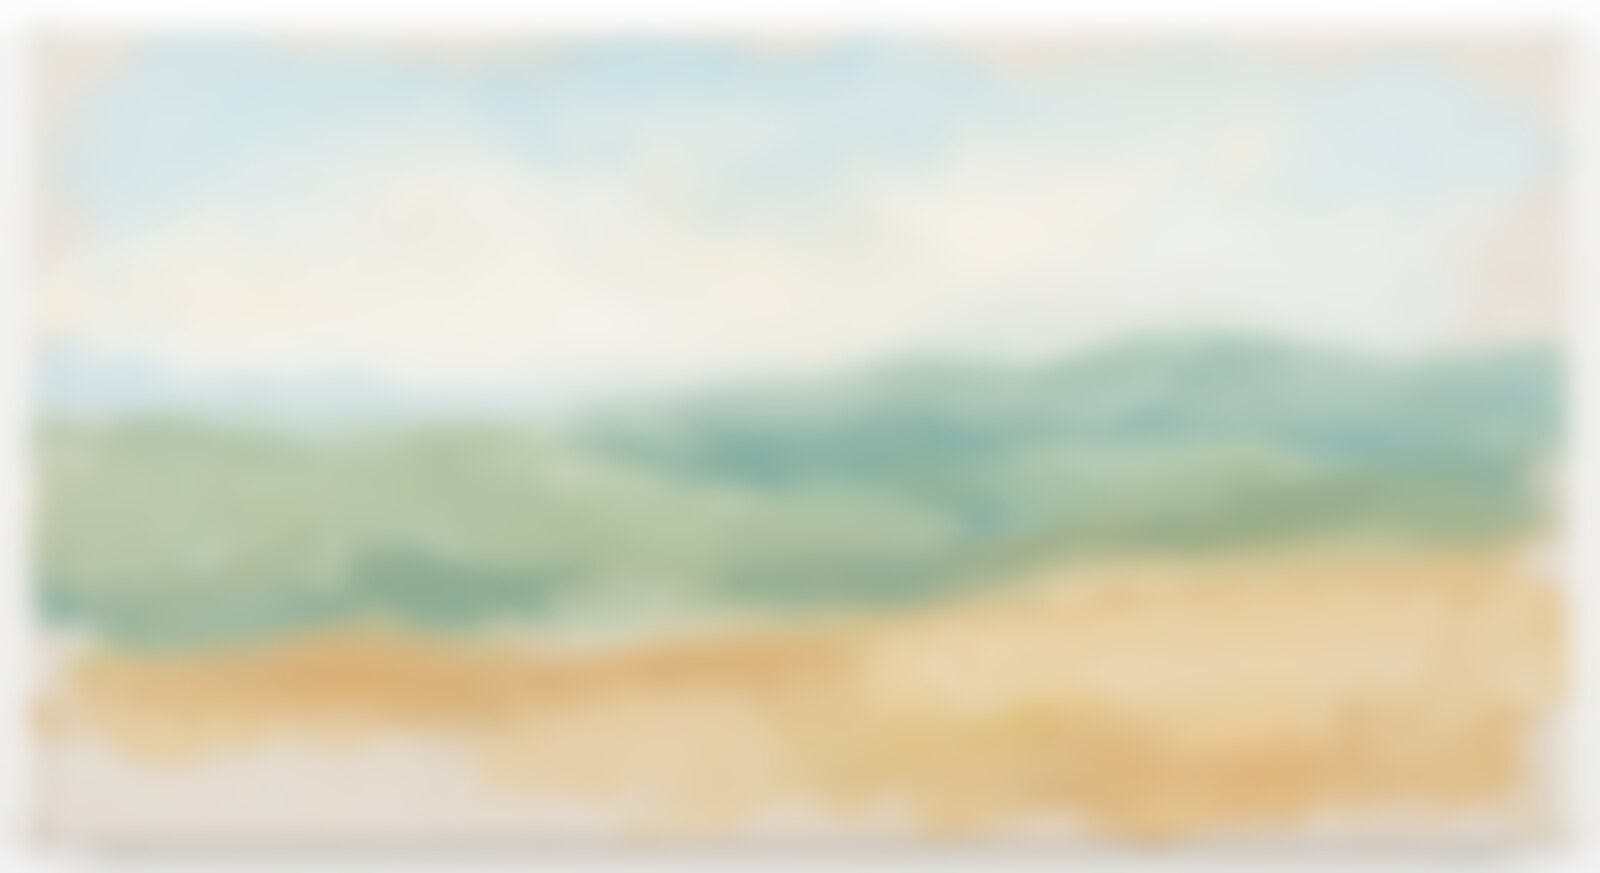
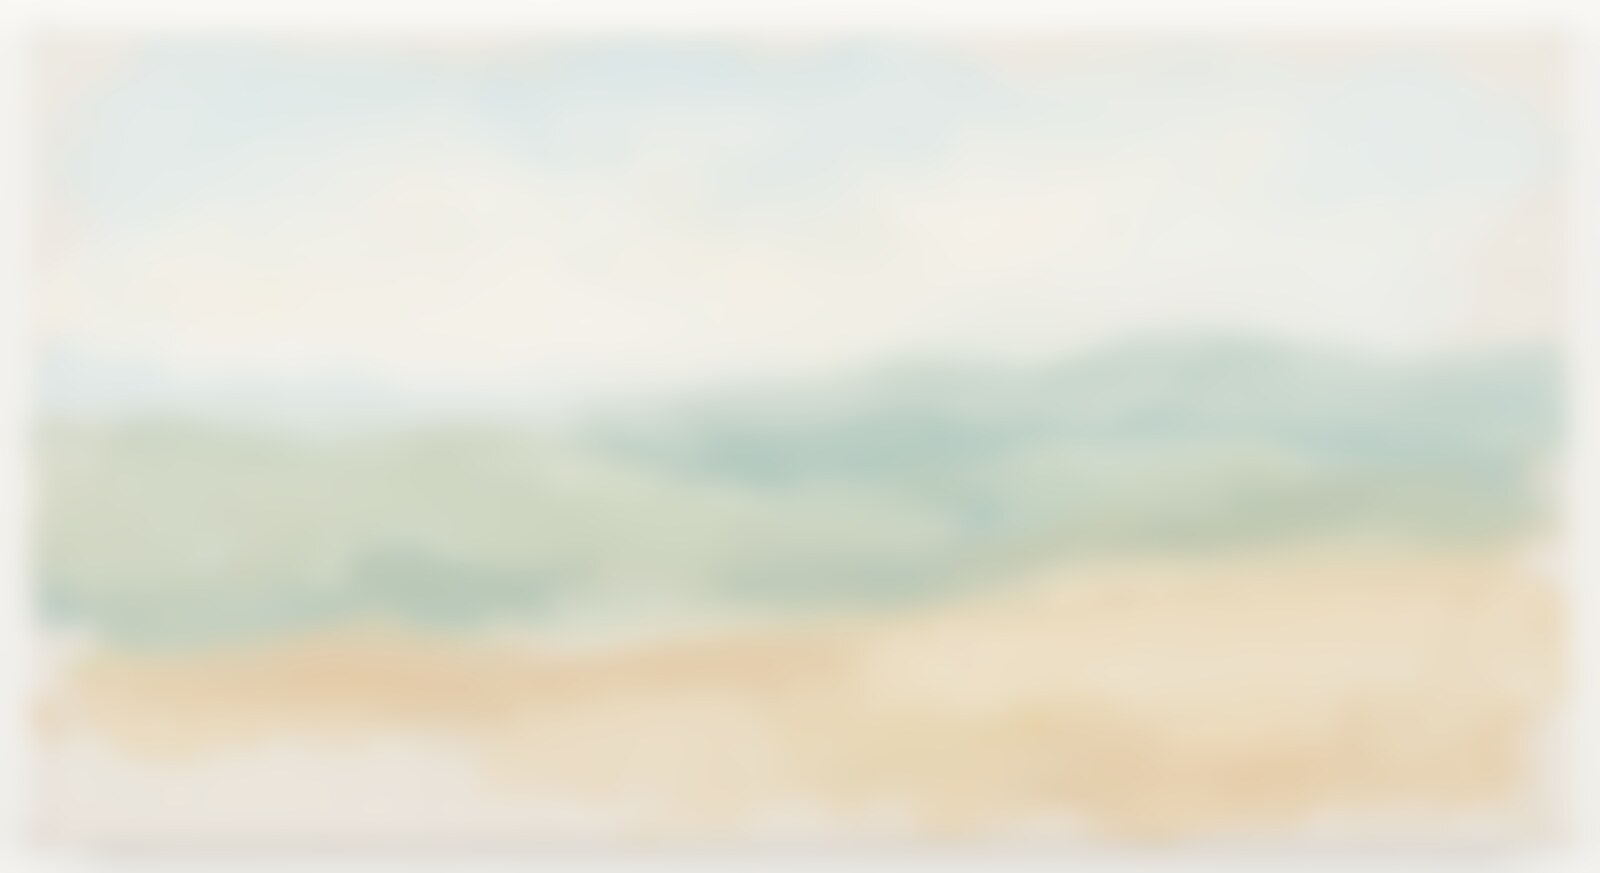
fix(vantaggi): leggibilita' garantita senza dipendere dal CSS - card bianche piene (bg-white), velo chiaro cotto nei JPEG sfocati (colorize 42%), rimossi sr-only decorativi e overlay con classi nuove; nuovo sfondo vantaggi-processo.jpg; SKILL aggiornata con regola anti-cache e ricetta screenshot

diff --git a/src/app/vantaggi/page.tsx b/src/app/vantaggi/page.tsx
@@ -55,20 +55,19 @@ export default async function VantaggiPage() {
           image="/images/vantaggi-hero.jpg"
           className="mx-auto max-w-6xl"
           contentClassName="px-6 py-14 md:px-14 md:py-24"
-          overlayClassName="bg-gradient-to-r from-cream/70 via-cream/45 to-cream/20"
         >
           <p className="text-[11px] uppercase tracking-[0.2em] text-olive">{POSITIONING.eyebrow}</p>
           <h1 className="mt-4 max-w-3xl font-serif text-4xl leading-[1.12] text-forest md:text-6xl">
             {POSITIONING.title}
           </h1>
-          <p className="mt-5 max-w-2xl text-[15px] leading-7 text-forest/80">{POSITIONING.subtitle}</p>
+          <p className="mt-5 max-w-2xl text-[15px] leading-7 text-forest">{POSITIONING.subtitle}</p>
           <div className="mt-8 flex flex-wrap items-center gap-3">
             <Link href={href("/imprese")} className="rounded-full bg-forest px-6 py-3 text-sm text-cream">
               Richiedi una convenzione
             </Link>
             <Link
               href={href("/come-funziona")}
-              className="rounded-full border border-forest/25 bg-cream/50 px-6 py-3 text-sm text-forest backdrop-blur-sm hover:bg-cream/80"
+              className="rounded-full border border-forest/25 bg-cream px-6 py-3 text-sm text-forest hover:bg-mist"
             >
               Vedi come funziona
             </Link>
@@ -92,20 +91,19 @@ export default async function VantaggiPage() {
           image="/images/vantaggi-stakeholder.jpg"
           className="mx-auto max-w-6xl"
           contentClassName="px-5 py-14 md:px-12 md:py-20"
-          overlayClassName="bg-cream/30"
         >
           <div className="max-w-3xl">
             <p className="text-[11px] uppercase tracking-[0.18em] text-olive">Valore condiviso</p>
             <h2 className="mt-3 font-serif text-3xl leading-tight text-forest md:text-4xl">
               Il valore dell&apos;ecosistema per gli stakeholder e la comunità
             </h2>
-            <p className="mt-4 text-[15px] leading-7 text-forest/80">{ECOSYSTEM_INTRO}</p>
+            <p className="mt-4 text-[15px] leading-7 text-forest">{ECOSYSTEM_INTRO}</p>
           </div>
           <div className="mt-10 grid gap-4 md:grid-cols-2">
             {stakeholders.map((item) => (
               <article
                 key={item.key}
-                className="rounded-2xl border border-white/50 bg-paper/85 p-6 backdrop-blur-sm md:p-7"
+                className="rounded-2xl border border-forest/10 bg-white p-6 md:p-7"
               >
                 <h3 className="font-serif text-xl text-forest md:text-2xl">{item.label}</h3>
                 <p className="mt-3 text-sm leading-6 text-olive">{item.benefit}</p>
@@ -121,7 +119,6 @@ export default async function VantaggiPage() {
           image="/images/vantaggi-moduli.jpg"
           className="mx-auto max-w-6xl"
           contentClassName="px-5 py-14 md:px-12 md:py-20"
-          overlayClassName="bg-cream/25"
         >
           <div className="max-w-2xl">
             <p className="text-[11px] uppercase tracking-[0.18em] text-olive">Come funziona l&apos;ecosistema</p>
@@ -133,7 +130,7 @@ export default async function VantaggiPage() {
             {modules.map((module) => (
               <article
                 key={module.key}
-                className="flex flex-col rounded-2xl border border-white/50 bg-paper/85 p-6 backdrop-blur-sm md:p-7"
+                className="flex flex-col rounded-2xl border border-forest/10 bg-white p-6 md:p-7"
               >
                 <p className="font-serif text-3xl text-gold">{module.index}</p>
                 <h3 className="mt-3 font-serif text-xl leading-snug text-forest">{module.title}</h3>
@@ -224,10 +221,9 @@ export default async function VantaggiPage() {
       {/* 6 — Processo di coinvolgimento (sfondo sfocato + diagramma + testo dentro l'immagine) */}
       <section className="px-3 md:px-6">
         <BlurredPanel
-          image="/images/abstract-blur.jpg"
+          image="/images/vantaggi-processo.jpg"
           className="mx-auto max-w-6xl"
           contentClassName="px-5 py-14 md:px-12 md:py-20"
-          overlayClassName="bg-cream/20"
         >
           <div className="max-w-2xl">
             <p className="text-[11px] uppercase tracking-[0.18em] text-olive">Il percorso</p>
@@ -244,7 +240,7 @@ export default async function VantaggiPage() {
             {processSteps.map((step, index) => (
               <article
                 key={step.key}
-                className="rounded-2xl border border-white/50 bg-cream/70 p-6 backdrop-blur-sm"
+                className="rounded-2xl border border-forest/10 bg-white p-6"
               >
                 <p className="text-[11px] uppercase tracking-[0.16em] text-olive">0{index + 1}</p>
                 <h3 className="mt-2 font-serif text-lg leading-snug text-forest">{step.title}</h3>
@@ -261,21 +257,20 @@ export default async function VantaggiPage() {
           image="/images/vantaggi-impatto.jpg"
           className="mx-auto max-w-6xl"
           contentClassName="px-5 py-14 md:px-12 md:py-20"
-          overlayClassName="bg-cream/35"
         >
           <div className="max-w-3xl">
             <p className="text-[11px] uppercase tracking-[0.18em] text-olive">Misurazione</p>
             <h2 className="mt-3 font-serif text-3xl leading-tight text-forest md:text-4xl">
               Gli indicatori di impatto dell&apos;ecosistema
             </h2>
-            <p className="mt-4 text-[15px] leading-7 text-forest/80">{IMPACT_INTRO}</p>
+            <p className="mt-4 text-[15px] leading-7 text-forest">{IMPACT_INTRO}</p>
           </div>
 
           <div className="mt-10 grid gap-4 md:grid-cols-2">
-            {impactIndicators.map((indicator, index) => (
+            {impactIndicators.map((indicator) => (
               <article
                 key={indicator.key}
-                className="rounded-2xl border border-white/50 bg-paper/85 p-6 backdrop-blur-sm md:p-7"
+                className="rounded-2xl border border-forest/10 bg-white p-6 md:p-7"
               >
                 <h3 className="font-serif text-xl text-forest">{indicator.title}</h3>
                 <p className="mt-3 text-sm leading-6 text-olive">{indicator.text}</p>
@@ -294,9 +289,6 @@ export default async function VantaggiPage() {
                     Imprese aderenti con reporting attivo: <span className="text-forest">{stats.companies}</span>
                   </p>
                 )}
-                <span className="sr-only">
-                  Indicatore {index + 1} di {impactIndicators.length}
-                </span>
               </article>
             ))}
           </div>

diff --git a/src/components/vantaggi/panel.tsx b/src/components/vantaggi/panel.tsx
@@ -11,7 +11,7 @@ export function BlurredPanel({
   children,
   className = "",
   contentClassName = "",
-  overlayClassName = "bg-cream/35",
+  overlayClassName = "",
   rounded = "rounded-[28px]",
 }: {
   image: string;
@@ -25,7 +25,9 @@ export function BlurredPanel({
   return (
     <div className={`relative overflow-hidden ${rounded} ${className}`}>
       <img src={image} alt={alt} className="absolute inset-0 h-full w-full object-cover" />
-      <div className={`absolute inset-0 ${overlayClassName}`} aria-hidden="true" />
+      {overlayClassName ? (
+        <div className={`absolute inset-0 ${overlayClassName}`} aria-hidden="true" />
+      ) : null}
       <div className={`relative ${contentClassName}`}>{children}</div>
     </div>
   );

diff --git a/Doc/skills/pagina-vantaggi/SKILL.md b/Doc/skills/pagina-vantaggi/SKILL.md
@@ -29,13 +29,44 @@ La pagina esiste già: usare questa sezione per **estendere** senza riscrivere.
 **Trattamento visivo delle sezioni immagine** (richiesta esplicita del committente): l'immagine è
 uno sfondo pittorico *volutamente sfocato* — è lo stesso linguaggio del diagramma in
 `/come-funziona` — e il testo, le card e i diagrammi stanno **sopra l'immagine**, non accanto.
-Tecnica: `BlurredPanel` con `img` in `absolute inset-0 object-cover`, overlay `bg-cream/NN` per il
-contrasto, contenuto in un layer `relative`. Non introdurre vignette scure: gli sfondi sono chiari,
-il testo che ci va sopra è `text-forest`.
+Tecnica: `BlurredPanel` con `img` in `absolute inset-0 object-cover` e contenuto in un layer
+`relative`.
 
-Se serve un nuovo sfondo: generare il dipinto, **sfocarlo davvero** in post-produzione
-(`convert in.jpg -resize 1600x -gaussian-blur 0x13 -modulate 103,112,100 out.jpg`), altrimenti il
-dettaglio pittorico compete con il testo.
+**Regola anti-cache (lezione pagata).** Il velo chiaro che garantisce il contrasto è **cotto dentro
+il JPEG**, non affidato a un overlay CSS. Motivo: le classi nuove (`bg-cream/45`, `bg-paper/85`,
+`backdrop-blur-sm`, `sr-only`…) compaiono solo nel CSS rigenerato; un visitatore che ha in cache il
+CSS precedente le perde e si ritrova card trasparenti e testo illeggibile sullo sfondo. Quindi:
+
+- superfici delle card: `bg-white` + `border-forest/10` (classi già presenti ovunque nel progetto);
+- sfondi: JPEG sfocato **+ velo `#f4f1ea` al 40-55%** applicato in post-produzione;
+- niente `sr-only` decorativi: se un'etichetta non deve vedersi, non renderizzarla.
+
+Non introdurre vignette scure: gli sfondi sono chiari, il testo che ci va sopra è `text-forest`
+opaco (non `/80`).
+
+Ricetta completa di uno sfondo:
+
+```bash
+convert orig.jpg -resize 1600x -gaussian-blur 0x13 -modulate 103,108,100 \
+  -fill "#f4f1ea" -colorize 42% -quality 88 public/images/vantaggi-<sezione>.jpg
+```
+
+Il terzo passaggio (`-colorize 42%`) è quello che rende il testo leggibile senza CSS.
+
+**Screenshot di verifica.** L'ambiente non ha browser: si usa Chromium impacchettato su npm, con le
+librerie e i font estratti dai bundle del pacchetto.
+
+```bash
+mkdir -p /tmp/shot && cd /tmp/shot && npm i @sparticuz/chromium puppeteer-core
+node -e "const fs=require('fs'),z=require('zlib');for(const f of ['al2023','fonts']){try{fs.writeFileSync('/tmp/'+f+'.tar', z.brotliDecompressSync(fs.readFileSync('node_modules/@sparticuz/chromium/bin/'+f+'.tar.br')))}catch(e){}}"
+mkdir -p /tmp/chromium-libs /tmp/chromium-fonts && tar -xf /tmp/al2023.tar -C /tmp/chromium-libs && tar -xf /tmp/fonts.tar -C /tmp/chromium-fonts
+# fontconfig per avere un serif (DejaVu) e il sans del progetto
+printf '%s' '<fontconfig><dir>/usr/share/fonts</dir><dir>/tmp/chromium-fonts/fonts</dir><cachedir>/tmp/fontconf/cache</cachedir><alias><family>serif</family><prefer><family>DejaVu Serif</family></prefer></alias></fontconfig>' > /tmp/fontconf/fonts.conf
+FONTCONFIG_PATH=/tmp/fontconf LD_LIBRARY_PATH=/tmp/chromium-libs/lib node shot.js http://localhost:3000/vantaggi out.png 1440 900
+```
+
+`@sparticuz/chromium` va importato come `mod.default ?? mod` (altrimenti `chromium.args is not
+iterable`) e lanciato con `headless: "shell"`.
 
 ---
 
